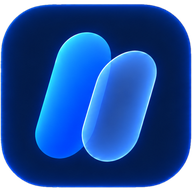
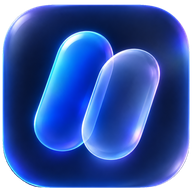
Add files via upload

diff --git a/index.html b/index.html
@@ -3,7 +3,7 @@
 <head>
 <meta charset="UTF-8">
 <meta name="viewport" content="width=device-width, initial-scale=1.0, viewport-fit=cover, maximum-scale=1.0, user-scalable=no">
-<meta name="theme-color" content="#2E6FF2">
+<meta name="theme-color" content="#EDEDF0">
 <meta name="description" content="Твоё расписание, время пар, домашние задания и оценки в одном месте">
 <title>Paira — расписание колледжа</title>
 <link rel="manifest" href="manifest.json">
@@ -636,6 +636,163 @@ a{ color:inherit; text-decoration:none; }
   backdrop-filter:var(--glass-blur); -webkit-backdrop-filter:var(--glass-blur);
 }
 
+
+/* =========================================================
+   Paira — Liquid Glass (dark / white, no blue)
+   ========================================================= */
+:root{
+  --bg:#EDEDF0; --surface:rgba(255,255,255,.58); --surface-2:rgba(255,255,255,.36); --sheet-bg:rgba(250,250,252,.70);
+  --accent:#1C1C1E; --accent-2:#3A3A3C; --accent-soft:rgba(60,60,67,.09); --on-accent:#fff;
+  --text:#1C1C1E; --text-secondary:rgba(60,60,67,.64); --text-tertiary:rgba(60,60,67,.38);
+  --border:rgba(60,60,67,.11); --hair:rgba(60,60,67,.14);
+  --success:#34C759; --success-soft:rgba(52,199,89,.15); --warning:#FF9F0A; --warning-soft:rgba(255,159,10,.16);
+  --danger:#FF3B30; --danger-soft:rgba(255,59,48,.13); --info:#8E8E93;
+  --radius-l:36px; --radius-m:26px; --radius-s:18px;
+  --glass-blur:blur(30px) saturate(190%);
+  --glass-hi:inset 0 1px 0 rgba(255,255,255,.95), inset 0 -1px 0 rgba(255,255,255,.3), inset 0 0 0 1px rgba(255,255,255,.4);
+  --shadow-card:0 10px 32px rgba(0,0,0,.06), var(--glass-hi);
+  --shadow-pop:0 26px 64px rgba(0,0,0,.16), var(--glass-hi);
+}
+[data-theme="dark"]{
+  --bg:#000; --surface:rgba(255,255,255,.075); --surface-2:rgba(255,255,255,.05); --sheet-bg:rgba(30,30,32,.68);
+  --accent:#F5F5F7; --accent-2:#D1D1D6; --accent-soft:rgba(255,255,255,.12); --on-accent:#000;
+  --text:#F5F5F7; --text-secondary:rgba(235,235,245,.62); --text-tertiary:rgba(235,235,245,.34);
+  --border:rgba(255,255,255,.10); --hair:rgba(255,255,255,.16);
+  --success:#30D158; --success-soft:rgba(48,209,88,.18); --warning:#FF9F0A; --warning-soft:rgba(255,159,10,.18);
+  --danger:#FF453A; --danger-soft:rgba(255,69,58,.18); --info:#98989D;
+  --glass-hi:inset 0 1px 0 rgba(255,255,255,.24), inset 0 -1px 0 rgba(255,255,255,.04), inset 0 0 0 1px rgba(255,255,255,.06);
+  --shadow-card:0 14px 36px rgba(0,0,0,.55), var(--glass-hi);
+  --shadow-pop:0 30px 72px rgba(0,0,0,.72), var(--glass-hi);
+}
+body{ font-family:-apple-system,BlinkMacSystemFont,"SF Pro Display","SF Pro Text","Inter","Segoe UI",Roboto,Helvetica,Arial,sans-serif; }
+body::before{ filter:blur(44px); background:
+  radial-gradient(40% 30% at 10% 6%, rgba(255,255,255,.95), transparent 66%),
+  radial-gradient(38% 30% at 94% 20%, rgba(180,180,192,.50), transparent 66%),
+  radial-gradient(44% 34% at 18% 98%, rgba(165,165,178,.42), transparent 66%),
+  radial-gradient(40% 30% at 98% 90%, rgba(255,255,255,.85), transparent 66%); }
+[data-theme="dark"] body::before{ background:
+  radial-gradient(40% 28% at 12% 5%, rgba(255,255,255,.17), transparent 66%),
+  radial-gradient(36% 28% at 94% 22%, rgba(160,160,172,.15), transparent 66%),
+  radial-gradient(44% 34% at 16% 98%, rgba(130,130,142,.17), transparent 66%),
+  radial-gradient(38% 28% at 98% 88%, rgba(255,255,255,.09), transparent 66%); }
+:focus-visible{ outline:2px solid var(--text-secondary); outline-offset:2px; }
+
+/* air + type */
+#app{ padding-bottom:150px; }
+.topbar{ padding:30px 24px 8px; }
+.topbar h1{ font-size:36px; font-weight:700; letter-spacing:-.035em; margin:0 0 6px; }
+.topbar .sub{ font-size:15px; }
+.screen{ padding:10px 22px 28px; }
+.section-title{ font-size:21px; font-weight:700; letter-spacing:-.02em; margin:34px 4px 14px; }
+.section-title .link{ font-size:14px; font-weight:600; color:var(--text-secondary); }
+.hero-title,.modal-title,.profile-name,.onb-title,.stat-card .v,.info-card .v{ font-weight:700; }
+.lesson-num,.week-day .wd-num,.grade-pill,.grade-badge,.avatar{ font-weight:600; }
+
+/* icon buttons, glass circles */
+.icon-btn{ width:46px; height:46px; border-radius:50%; background:var(--surface); box-shadow:var(--shadow-card); backdrop-filter:var(--glass-blur); -webkit-backdrop-filter:var(--glass-blur); }
+
+/* hero */
+:root .hero-card,:root .hero-card.neutral{
+  background:linear-gradient(155deg,var(--surface),var(--surface-2)); color:var(--text); border:1px solid var(--border);
+  box-shadow:var(--shadow-card); border-radius:var(--radius-l); padding:30px 28px;
+  backdrop-filter:var(--glass-blur); -webkit-backdrop-filter:var(--glass-blur); }
+:root .hero-card .pill{ background:var(--accent-soft); color:var(--text); }
+:root .hero-card .pill .dot{ background:var(--text-secondary); }
+:root .hero-card .pill.live .dot{ background:var(--success); }
+:root .hero-card .hero-meta,:root .hero-card .hero-timer-label{ color:var(--text-secondary); opacity:1; }
+.hero-title{ font-size:30px; letter-spacing:-.03em; margin:18px 0 4px; }
+.hero-timer{ font-size:54px; font-weight:300; letter-spacing:-.04em; }
+:root .hero-card .ring-track{ stroke:var(--hair); stroke-width:5; }
+:root .hero-card .ring-fill{ stroke:var(--text); stroke-width:5; }
+.ring-wrap{ width:84px; height:84px; }
+.ring-pct{ font-weight:600; }
+
+/* cards */
+.next-card,.lesson-row,.hw-card,.stat-card,.grade-chart-wrap,.grade-row,.subj-avg-row,.list-group,.info-card,.fr-card,.parity-row{
+  background:linear-gradient(160deg,var(--surface),var(--surface-2)); }
+.next-card{ margin-top:16px; padding:20px 22px; border-radius:var(--radius-m); }
+:root .next-card .badge{ background:var(--accent-soft); color:var(--text); }
+.lesson-row{ padding:16px 18px; margin-bottom:12px; gap:12px; }
+.lesson-row.active{ background:var(--accent-soft); border-color:var(--text-tertiary); }
+:root .lesson-row.active .lesson-num{ background:var(--accent); color:var(--on-accent); border-color:var(--accent); }
+.lesson-num{ width:38px; height:38px; border-radius:50%; }
+.lesson-subject{ font-size:16px; font-weight:600; }
+.hw-card,.stat-card,.grade-row,.subj-avg-row,.info-card,.fr-card{ padding:18px; margin-bottom:12px; }
+.hw-swatch,.grade-badge{ border-radius:14px; }
+.list-item{ padding:17px 18px; }
+.list-item .li-icon{ border-radius:50%; }
+.stat-grid{ gap:12px; }
+.empty-state{ padding:56px 24px; }
+
+/* nav: floating glass tab bar */
+:root .bottom-nav{
+  left:16px; right:16px; bottom:calc(14px + env(safe-area-inset-bottom)); width:auto; max-width:none; margin:0 auto;
+  padding:7px; border:1px solid var(--border); border-radius:40px; gap:2px;
+  background:linear-gradient(160deg,var(--surface),var(--surface-2)); box-shadow:var(--shadow-pop);
+  backdrop-filter:blur(40px) saturate(200%); -webkit-backdrop-filter:blur(40px) saturate(200%); }
+@media (min-width:540px){ :root .bottom-nav{ left:50%; right:auto; transform:translateX(-50%); width:calc(100% - 32px); max-width:488px; border-radius:40px; } }
+.nav-btn{ border-radius:32px; padding:9px 4px 8px; color:var(--text-secondary); max-width:none; transition:background .2s, color .2s; }
+.nav-btn span{ font-size:10.5px; font-weight:600; }
+.nav-btn.active{ color:var(--text); background:var(--accent-soft); box-shadow:var(--glass-hi); }
+.toast-root{ bottom:128px; }
+.toast{ border-radius:999px; padding:12px 20px; backdrop-filter:var(--glass-blur); }
+
+/* week strip, chips, segments */
+.week-strip{ gap:8px; }
+.week-day{ border-radius:24px; padding:13px 4px; box-shadow:var(--glass-hi); background:linear-gradient(160deg,var(--surface),var(--surface-2)); }
+:root .week-day.selected{ background:var(--accent); border-color:var(--accent); box-shadow:0 10px 26px rgba(0,0,0,.22); }
+:root .week-day.selected .wd-name,:root .week-day.selected .wd-num{ color:var(--on-accent); }
+.week-day.today:not(.selected){ border-color:var(--text-secondary); }
+.chip,.pill-opt,.theme-opt,.grade-pill,.subj-tag,.attach-chip,.subj-file-item,.day-slot,.cal-nav button,.btn-secondary{ box-shadow:var(--glass-hi); }
+.chip,.pill-opt{ border-radius:999px; padding:10px 17px; }
+:root .chip.active,:root .pill-opt.active,:root .theme-opt.active{ background:var(--accent); border-color:var(--accent); color:var(--on-accent); }
+.theme-opt{ border-radius:999px; padding:12px 4px; }
+.seg-tabs{ border-radius:999px; padding:5px; }
+.seg-tab{ border-radius:999px; padding:11px 6px; }
+.week-parity,.tag-pill{ color:var(--text); }
+:root .day-banner.vacation{ background:var(--accent-soft); color:var(--text); }
+.day-banner{ border-radius:var(--radius-m); padding:16px 18px; }
+.cal-cell.mark-vacation{ background:rgba(142,142,147,.22); }
+.cal-cell{ border-radius:50%; }
+
+/* buttons: pill shaped */
+:root .btn-primary{ background:var(--accent); color:var(--on-accent); border-radius:999px; padding:17px; font-weight:600; box-shadow:0 12px 30px rgba(0,0,0,.20); }
+[data-theme="dark"] .btn-primary{ box-shadow:0 10px 34px rgba(255,255,255,.14); }
+:root .btn-primary.danger{ background:var(--danger); color:#fff; box-shadow:0 12px 30px rgba(255,59,48,.28); }
+.btn-secondary{ border-radius:999px; padding:16px; }
+:root .fab{ background:var(--accent); color:var(--on-accent); border-radius:999px; padding:15px 22px; box-shadow:0 12px 30px rgba(0,0,0,.22); }
+:root .switch{ width:51px; height:31px; background:rgba(120,120,128,.32); }
+:root .switch.on{ background:var(--success); }
+.switch .knob{ width:27px; height:27px; top:2px; left:2px; background:#fff; }
+.switch.on .knob{ left:22px; }
+.avatar{ background:var(--accent-soft); color:var(--text); border-radius:50%; box-shadow:var(--glass-hi); }
+.avatar-edit{ color:var(--text); }
+
+/* sheets + fields */
+.modal-overlay{ background:rgba(0,0,0,.28); backdrop-filter:blur(8px); -webkit-backdrop-filter:blur(8px); }
+[data-theme="dark"] .modal-overlay{ background:rgba(0,0,0,.55); }
+.modal-sheet{ border-radius:40px 40px 0 0; padding:12px 24px calc(32px + env(safe-area-inset-bottom));
+  backdrop-filter:blur(44px) saturate(190%); -webkit-backdrop-filter:blur(44px) saturate(190%); }
+.modal-grabber{ background:var(--text-tertiary); }
+.modal-title{ font-size:22px; letter-spacing:-.02em; margin:6px 0 22px; }
+.modal-title .close-x{ width:34px; height:34px; border-radius:50%; }
+.field{ margin-bottom:20px; }
+.field label{ font-weight:600; margin-bottom:8px; }
+.field input[type="text"],.field input[type="date"],.field input[type="time"],.field input[type="password"],.field textarea,.field select{
+  border-radius:var(--radius-s); padding:15px 16px; box-shadow:var(--glass-hi); }
+.field input:focus,.field textarea:focus,.field select:focus{ border-color:var(--text-tertiary); }
+.wizard-step{ color:var(--text-secondary); }
+:root .wizard-dots .d.done{ background:var(--text); }
+
+/* onboarding logo */
+.onb-wrap{ padding:72px 30px 40px; }
+:root .onb-logo{ width:140px; height:140px; border-radius:0; background:none; box-shadow:none; margin:0 auto 34px; }
+.onb-logo img{ width:100%; height:100%; object-fit:contain; display:block; -webkit-user-drag:none; }
+:root .onb-logo.glyph{ width:100px; height:100px; border-radius:50%; background:var(--surface); border:1px solid var(--border);
+  box-shadow:var(--shadow-card); color:var(--text); backdrop-filter:var(--glass-blur); -webkit-backdrop-filter:var(--glass-blur); }
+.onb-title{ font-size:36px; letter-spacing:-.035em; }
+.onb-desc{ font-size:16px; }
+@media (prefers-reduced-motion: reduce){ *{ transition:none !important; animation:none !important; } }
 </style>
 </head>
 <body>
@@ -691,7 +848,7 @@ const WEEKDAY_KEYS = ['sun','mon','tue','wed','thu','fri','sat']; // JS getDay()
 const WEEKDAY_LABELS_SHORT = { mon:'Пн', tue:'Вт', wed:'Ср', thu:'Чт', fri:'Пт', sat:'Сб', sun:'Вс' };
 const WEEKDAY_LABELS_FULL = { mon:'Понедельник', tue:'Вторник', wed:'Среда', thu:'Четверг', fri:'Пятница', sat:'Суббота', sun:'Воскресенье' };
 
-const SUBJECT_COLORS = ['#6E56E8','#4AA8F0','#2FBE79','#F3A93B','#F0506E','#EC6FC1','#3BC9C9','#F08A4B'];
+const SUBJECT_COLORS = ['#8E8E93','#34C759','#FF9F0A','#FF453A','#FF6482','#D9A400','#AC8E68','#30B0A0'];
 
 function uid(prefix){
   return (prefix ? prefix + '_' : '') + Date.now().toString(36) + Math.random().toString(36).slice(2,8);
@@ -1692,8 +1849,8 @@ function renderDayImageCanvas(dateStr){
   const W = 720, PAD = 40;
   const isDark = document.documentElement.getAttribute('data-theme') === 'dark';
   const palette = isDark
-    ? { bg:'#131120', card:'#1C1A2B', text:'#F4F3FA', sub:'#9C98B2', border:'#2C2A3E', accent:'#8877F4', accent2:'#A395F7', danger:'#F17188' }
-    : { bg:'#F6F5FB', card:'#FFFFFF', text:'#17151F', sub:'#837F94', border:'#ECEAF4', accent:'#6E56E8', accent2:'#9285F2', danger:'#F0506E' };
+    ? { bg:'#000000', card:'#1C1C1E', text:'#F5F5F7', sub:'#98989D', border:'#2C2C2E', accent:'#F5F5F7', accent2:'#D1D1D6', danger:'#FF453A' }
+    : { bg:'#F2F2F7', card:'#FFFFFF', text:'#1C1C1E', sub:'#8E8E93', border:'#E5E5EA', accent:'#1C1C1E', accent2:'#3A3A3C', danger:'#FF3B30' };
 
   const dayInfo = getDayType(dateStr);
   const lessons = getLessonsForDate(dateStr, dayInfo);
@@ -1731,7 +1888,7 @@ function renderDayImageCanvas(dateStr){
     const label = parityLabel(weekParity(dateStr));
     ctx.font = '700 14px -apple-system, "SF Pro Text", Roboto, Arial, sans-serif';
     const bw = ctx.measureText(label).width + 28;
-    ctx.fillStyle = isDark ? 'rgba(136,119,244,0.18)' : '#EFEBFE';
+    ctx.fillStyle = isDark ? 'rgba(255,255,255,0.12)' : '#EDEDF0';
     drawRoundedRect(ctx, W-PAD-bw, PAD+8, bw, 32, 16);
     ctx.fill();
     ctx.fillStyle = palette.accent;
@@ -1940,7 +2097,7 @@ const Onb = {
       <div class="onb-wrap">
         <div>
           <div class="onb-logo">
-            ${Icons.logo.replace('currentColor','#fff')}
+            <img src="logo.png" alt="Paira" draggable="false">
           </div>
           <div class="onb-title">Paira</div>
           <p class="onb-desc">Твоё расписание, время пар и домашние задания в одном месте</p>
@@ -2031,7 +2188,7 @@ const Onb = {
     app.innerHTML = `
       <div class="onb-wrap">
         <div>
-          <div class="onb-logo">${Icons.check.replace('currentColor','#fff')}</div>
+          <div class="onb-logo glyph">${Icons.check}</div>
           <div class="onb-title">Готово</div>
           <p class="onb-desc">Добро пожаловать в Paira. Твоё расписание уже настроено.</p>
         </div>
@@ -4166,6 +4323,8 @@ function applyTheme(){
   if(t === 'system') effective = window.matchMedia('(prefers-color-scheme: dark)').matches ? 'dark' : 'light';
   if(effective === 'dark') document.documentElement.setAttribute('data-theme','dark');
   else document.documentElement.removeAttribute('data-theme');
+  const tc = document.querySelector('meta[name="theme-color"]');
+  if(tc) tc.content = effective === 'dark' ? '#000000' : '#EDEDF0';
 }
 
 

diff --git a/service-worker.js b/service-worker.js
@@ -1,37 +1,19 @@
-const CACHE_NAME = 'paira-cache-v1';
-const CORE_ASSETS = [
-  './',
-  './index.html',
-  './manifest.json',
-  './icon-192.png',
-  './icon-512.png',
-  './apple-touch-icon.png'
-];
-
-self.addEventListener('install', (event) => {
-  event.waitUntil(
-    caches.open(CACHE_NAME).then((cache) => cache.addAll(CORE_ASSETS)).then(() => self.skipWaiting())
-  );
+const CACHE = 'paira-v2';
+const ASSETS = ['./', 'index.html', 'manifest.json', 'favicon.png', 'apple-touch-icon.png', 'logo.png', 'icon-192.png', 'icon-512.png'];
+self.addEventListener('install', e => {
+  e.waitUntil(caches.open(CACHE).then(c => c.addAll(ASSETS)).then(() => self.skipWaiting()));
 });
-
-self.addEventListener('activate', (event) => {
-  event.waitUntil(
-    caches.keys().then((keys) =>
-      Promise.all(keys.filter((k) => k !== CACHE_NAME).map((k) => caches.delete(k)))
-    ).then(() => self.clients.claim())
-  );
+self.addEventListener('activate', e => {
+  e.waitUntil(caches.keys().then(k => Promise.all(k.filter(x => x !== CACHE).map(x => caches.delete(x)))).then(() => self.clients.claim()));
 });
-
-// Network-first for the app shell (so updates land quickly), falling back to cache when offline.
-self.addEventListener('fetch', (event) => {
-  if (event.request.method !== 'GET') return;
-  event.respondWith(
-    fetch(event.request)
-      .then((response) => {
-        const copy = response.clone();
-        caches.open(CACHE_NAME).then((cache) => cache.put(event.request, copy));
-        return response;
-      })
-      .catch(() => caches.match(event.request).then((cached) => cached || caches.match('./index.html')))
-  );
+self.addEventListener('fetch', e => {
+  const r = e.request;
+  if (r.method !== 'GET') return;
+  if (new URL(r.url).origin !== location.origin) return; // Supabase и CDN не трогаем
+  if (r.mode === 'navigate') {
+    e.respondWith(fetch(r).then(res => { const cp = res.clone(); caches.open(CACHE).then(c => c.put('index.html', cp)); return res; })
+      .catch(() => caches.match('index.html')));
+    return;
+  }
+  e.respondWith(caches.match(r).then(h => h || fetch(r).then(res => { const cp = res.clone(); caches.open(CACHE).then(c => c.put(r, cp)); return res; })));
 });
